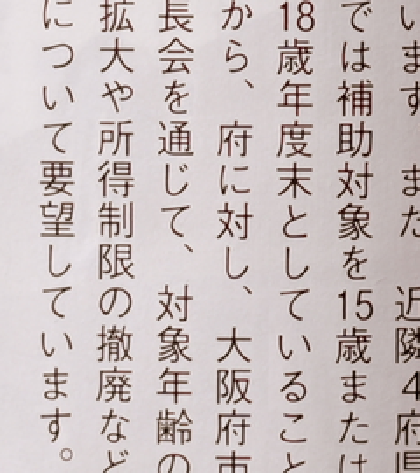
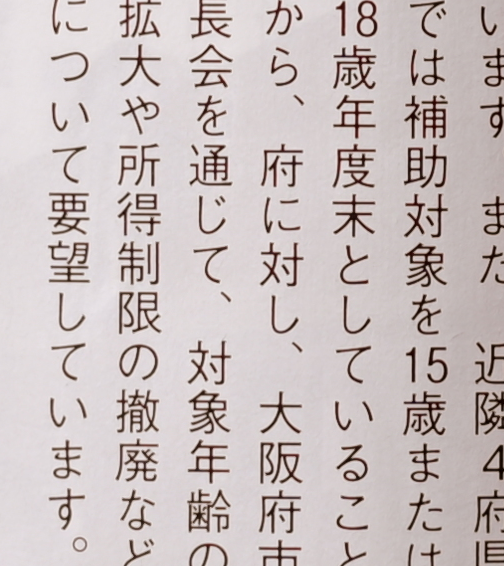
以原生像素裁切相机原图，并排对照并报告色差、粗糙度及文件大小

diff --git a/README.md b/README.md
@@ -24,18 +24,30 @@
 
 ## 实验结果
 
-| 场景 | 原图直发 | Photoshop 普通两次立方 | 新方案 |
-|---|---:|---:|---:|
-| 枫叶 | 66.97 | 70.89 | 71.47 |
-| 杂志 | 72.31 | 73.48 | 73.68 |
-| 人像 | 74.69 | 75.64 | 75.87 |
+| 场景 | 发送方式 | 发送文件 MB | 实收文件 MB | 平均色差 ΔE76 ↓ | 新增粗糙度 ↓ | 综合评分 ↑ |
+|---|---|---:|---:|---:|---:|---:|
+| 枫叶 | 原图直发 | 18.653 | 1.043 | 4.341 | 1.941 | 66.97 |
+| 枫叶 | Photoshop | 16.598 | 1.100 | 4.234 | 2.493 | 70.89 |
+| 枫叶 | 新方案 | 10.534 | 1.120 | 4.219 | 2.569 | 71.47 |
+| 杂志 | 原图直发 | 11.264 | 0.524 | 1.979 | 1.042 | 72.31 |
+| 杂志 | Photoshop | 16.597 | 0.550 | 1.946 | 1.306 | 73.48 |
+| 杂志 | 新方案 | 7.233 | 0.553 | 1.945 | 1.341 | 73.68 |
+| 人像 | 原图直发 | 19.471 | 0.438 | 1.682 | 0.508 | 74.69 |
+| 人像 | Photoshop | 16.598 | 0.461 | 1.674 | 0.628 | 75.64 |
+| 人像 | 新方案 | 7.969 | 0.461 | 1.672 | 0.635 | 75.87 |
 
-三张照片中，先缩图再发的评分均高于原图直发。新方案相对 Photoshop 的分差，枫叶为 0.58，杂志为 0.20，人像为 0.23。小分差是否可见，可以对照各场景的独立细节图判断。
+发送和实收大小取自当时的本地文件，1 MB = 1,000,000 字节。公开 JPEG 副本移除了拍摄元数据，因此下载大小可能略有不同。
+
+### 怎么读这些指标
+
+三项指标都比较整张实收图和相机原图经 Lanczos3 缩至 2880 × 1920 的参考图。新方案也使用这一缩图方式。看图时可以另外对照直接从相机原图裁出的原生像素。
+
+- **平均色差 ΔE76**。按 sRGB 解码，转换到 D65 白点的 CIELAB，计算每对对应像素在 L*、a*、b* 三个维度的欧氏距离，再取全图平均。数值越小，颜色与明暗越接近参考。它衡量偏离的幅度，无法单凭此值判断整幅图偏红或偏绿。
+- **新增粗糙度**。本报告采用一个辅助量衡量局部亮度跳变。以 8 位 sRGB 的加权亮度 Y′ = 0.2126R′ + 0.7152G′ + 0.0722B′，计算每个像素与右、下邻点的亮度差，两方向合成梯度幅值 G。全图取 max(G实收 − G参考, 0) 的平均值，略去最右列和最下行。数值越大，额外的亮度跳变越强。锐化、噪点或压缩边界都可能提高它，模糊也可能降低它，需结合细节图和综合分解读。
+- **综合评分 SSIMULACRA2**。算法在 XYB 色彩空间按六种尺度比较结构差异、额外边缘及模糊导致的细节损失，再加权汇总。100 分表示与参考一致，分数越高代表越接近参考。文件大小、上列色差和粗糙度均单独报告。[算法作者的说明与源码](https://github.com/cloudinary/ssimulacra2#how-it-works)
 
 ## 实验方法
 
 两种预处理都输出 2880 × 1920 的 PNG。Photoshop 使用「两次立方（平滑渐变）」。新方案使用 Lanczos3 缩图，模拟 JPEG Q70、4:2:0 重压，结合像素误差与感知评分选择色度补偿系数。枫叶、杂志和人像依次选中 0.75、0.25 和 0。
 
-评分指标为 SSIMULACRA2，参考图为同尺寸的 Lanczos3 缩图，与新方案共用缩图方式。分数越高，表示越接近该参考图。结论限于这三张样本和本次朋友圈发送条件。
-
-公开的完整 JPEG 移除了拍摄元数据，解码像素与本地文件一致。GitHub 会按页面宽度显示照片，进入场景后点击单张图片即可打开原尺寸文件。
+结论限于三张照片及此次朋友圈发送条件。

diff --git a/portrait/README.md b/portrait/README.md
@@ -36,22 +36,20 @@
 
 ## 同位置细节
 
-以 2880 × 1920 为基准，截取左上角 (1232, 536) 至右下角 (1592, 968) 的区域，以最近邻放大至 105%。原图先缩至同尺寸以对齐位置。每幅局部单独保存为无损 PNG。
+四幅图取同一片画面，点击可看各自的 PNG。朋友圈图在 2880 × 1920 上取框 (1232, 536, 1592, 968)，局部以最近邻放至 105%。相机原图在 5651 × 3767 上取对应框 (2417, 1052, 3124, 1899)，直接保留框内全部 707 × 847 个像素。页面会随屏宽调整显示大小。
 
-**相机原图** · 等尺寸参考
+| 相机原图 · 原生像素 | 原图直发朋友圈 |
+|---|---|
+| [![人像 · 原图](original-detail.png)](https://raw.githubusercontent.com/ZHUKECHENG666/wechat-moments-photo-study/main/portrait/original-detail.png) | [![人像 · 直发](direct-detail.png)](https://raw.githubusercontent.com/ZHUKECHENG666/wechat-moments-photo-study/main/portrait/direct-detail.png) |
+| **Photoshop 普通两次立方** | **新方案** |
+| [![人像 · Photoshop](photoshop-detail.png)](https://raw.githubusercontent.com/ZHUKECHENG666/wechat-moments-photo-study/main/portrait/photoshop-detail.png) | [![人像 · 新方案](adaptive-detail.png)](https://raw.githubusercontent.com/ZHUKECHENG666/wechat-moments-photo-study/main/portrait/adaptive-detail.png) |
 
-[![人像 · 相机原图局部](original-detail.png)](https://raw.githubusercontent.com/ZHUKECHENG666/wechat-moments-photo-study/main/portrait/original-detail.png)
+## 实测结果
 
-**原图直发朋友圈**
+| 场景 | 发送方式 | 发送文件 MB | 实收文件 MB | 平均色差 ΔE76 ↓ | 新增粗糙度 ↓ | 综合评分 ↑ |
+|---|---|---:|---:|---:|---:|---:|
+| 人像 | 原图直发 | 19.471 | 0.438 | 1.682 | 0.508 | 74.69 |
+| 人像 | Photoshop | 16.598 | 0.461 | 1.674 | 0.628 | 75.64 |
+| 人像 | 新方案 | 7.969 | 0.461 | 1.672 | 0.635 | 75.87 |
 
-[![人像 · 原图直发朋友圈局部](direct-detail.png)](https://raw.githubusercontent.com/ZHUKECHENG666/wechat-moments-photo-study/main/portrait/direct-detail.png)
-
-**Photoshop 缩图后发朋友圈**
-
-[![人像 · Photoshop 缩图后发朋友圈局部](photoshop-detail.png)](https://raw.githubusercontent.com/ZHUKECHENG666/wechat-moments-photo-study/main/portrait/photoshop-detail.png)
-
-**新方案处理后发朋友圈**
-
-[![人像 · 新方案处理后发朋友圈局部](adaptive-detail.png)](https://raw.githubusercontent.com/ZHUKECHENG666/wechat-moments-photo-study/main/portrait/adaptive-detail.png)
-
-[返回实验结果](../README.md#实验结果)
+[返回全部结果与指标说明](../README.md#实验结果)

diff --git a/print/README.md b/print/README.md
@@ -36,22 +36,20 @@
 
 ## 同位置细节
 
-以 2880 × 1920 为基准，截取左上角 (1110, 1095) 至右下角 (1350, 1365) 的区域，以最近邻放大至 175%。原图先缩至同尺寸以对齐位置。每幅局部单独保存为无损 PNG。
+四幅图取同一片画面，点击可看各自的 PNG。朋友圈图在 2880 × 1920 上取框 (1110, 1095, 1350, 1365)，局部以最近邻放至 175%。相机原图在 6048 × 4032 上取对应框 (2331, 2300, 2835, 2866)，直接保留框内全部 504 × 566 个像素。页面会随屏宽调整显示大小。
 
-**相机原图** · 等尺寸参考
+| 相机原图 · 原生像素 | 原图直发朋友圈 |
+|---|---|
+| [![杂志 · 原图](original-detail.png)](https://raw.githubusercontent.com/ZHUKECHENG666/wechat-moments-photo-study/main/print/original-detail.png) | [![杂志 · 直发](direct-detail.png)](https://raw.githubusercontent.com/ZHUKECHENG666/wechat-moments-photo-study/main/print/direct-detail.png) |
+| **Photoshop 普通两次立方** | **新方案** |
+| [![杂志 · Photoshop](photoshop-detail.png)](https://raw.githubusercontent.com/ZHUKECHENG666/wechat-moments-photo-study/main/print/photoshop-detail.png) | [![杂志 · 新方案](adaptive-detail.png)](https://raw.githubusercontent.com/ZHUKECHENG666/wechat-moments-photo-study/main/print/adaptive-detail.png) |
 
-[![杂志 · 相机原图局部](original-detail.png)](https://raw.githubusercontent.com/ZHUKECHENG666/wechat-moments-photo-study/main/print/original-detail.png)
+## 实测结果
 
-**原图直发朋友圈**
+| 场景 | 发送方式 | 发送文件 MB | 实收文件 MB | 平均色差 ΔE76 ↓ | 新增粗糙度 ↓ | 综合评分 ↑ |
+|---|---|---:|---:|---:|---:|---:|
+| 杂志 | 原图直发 | 11.264 | 0.524 | 1.979 | 1.042 | 72.31 |
+| 杂志 | Photoshop | 16.597 | 0.550 | 1.946 | 1.306 | 73.48 |
+| 杂志 | 新方案 | 7.233 | 0.553 | 1.945 | 1.341 | 73.68 |
 
-[![杂志 · 原图直发朋友圈局部](direct-detail.png)](https://raw.githubusercontent.com/ZHUKECHENG666/wechat-moments-photo-study/main/print/direct-detail.png)
-
-**Photoshop 缩图后发朋友圈**
-
-[![杂志 · Photoshop 缩图后发朋友圈局部](photoshop-detail.png)](https://raw.githubusercontent.com/ZHUKECHENG666/wechat-moments-photo-study/main/print/photoshop-detail.png)
-
-**新方案处理后发朋友圈**
-
-[![杂志 · 新方案处理后发朋友圈局部](adaptive-detail.png)](https://raw.githubusercontent.com/ZHUKECHENG666/wechat-moments-photo-study/main/print/adaptive-detail.png)
-
-[返回实验结果](../README.md#实验结果)
+[返回全部结果与指标说明](../README.md#实验结果)

diff --git a/maple/README.md b/maple/README.md
@@ -36,22 +36,20 @@
 
 ## 同位置细节
 
-以 2880 × 1920 为基准，截取左上角 (480, 840) 至右下角 (800, 1080) 的区域，以最近邻放大至 105%。原图先缩至同尺寸以对齐位置。每幅局部单独保存为无损 PNG。
+四幅图取同一片画面，点击可看各自的 PNG。朋友圈图在 2880 × 1920 上取框 (480, 840, 800, 1080)，局部以最近邻放至 105%。相机原图在 6048 × 4032 上取对应框 (1008, 1764, 1680, 2268)，直接保留框内全部 672 × 504 个像素。页面会随屏宽调整显示大小。
 
-**相机原图** · 等尺寸参考
+| 相机原图 · 原生像素 | 原图直发朋友圈 |
+|---|---|
+| [![枫叶 · 原图](original-detail.png)](https://raw.githubusercontent.com/ZHUKECHENG666/wechat-moments-photo-study/main/maple/original-detail.png) | [![枫叶 · 直发](direct-detail.png)](https://raw.githubusercontent.com/ZHUKECHENG666/wechat-moments-photo-study/main/maple/direct-detail.png) |
+| **Photoshop 普通两次立方** | **新方案** |
+| [![枫叶 · Photoshop](photoshop-detail.png)](https://raw.githubusercontent.com/ZHUKECHENG666/wechat-moments-photo-study/main/maple/photoshop-detail.png) | [![枫叶 · 新方案](adaptive-detail.png)](https://raw.githubusercontent.com/ZHUKECHENG666/wechat-moments-photo-study/main/maple/adaptive-detail.png) |
 
-[![枫叶 · 相机原图局部](original-detail.png)](https://raw.githubusercontent.com/ZHUKECHENG666/wechat-moments-photo-study/main/maple/original-detail.png)
+## 实测结果
 
-**原图直发朋友圈**
+| 场景 | 发送方式 | 发送文件 MB | 实收文件 MB | 平均色差 ΔE76 ↓ | 新增粗糙度 ↓ | 综合评分 ↑ |
+|---|---|---:|---:|---:|---:|---:|
+| 枫叶 | 原图直发 | 18.653 | 1.043 | 4.341 | 1.941 | 66.97 |
+| 枫叶 | Photoshop | 16.598 | 1.100 | 4.234 | 2.493 | 70.89 |
+| 枫叶 | 新方案 | 10.534 | 1.120 | 4.219 | 2.569 | 71.47 |
 
-[![枫叶 · 原图直发朋友圈局部](direct-detail.png)](https://raw.githubusercontent.com/ZHUKECHENG666/wechat-moments-photo-study/main/maple/direct-detail.png)
-
-**Photoshop 缩图后发朋友圈**
-
-[![枫叶 · Photoshop 缩图后发朋友圈局部](photoshop-detail.png)](https://raw.githubusercontent.com/ZHUKECHENG666/wechat-moments-photo-study/main/maple/photoshop-detail.png)
-
-**新方案处理后发朋友圈**
-
-[![枫叶 · 新方案处理后发朋友圈局部](adaptive-detail.png)](https://raw.githubusercontent.com/ZHUKECHENG666/wechat-moments-photo-study/main/maple/adaptive-detail.png)
-
-[返回实验结果](../README.md#实验结果)
+[返回全部结果与指标说明](../README.md#实验结果)
